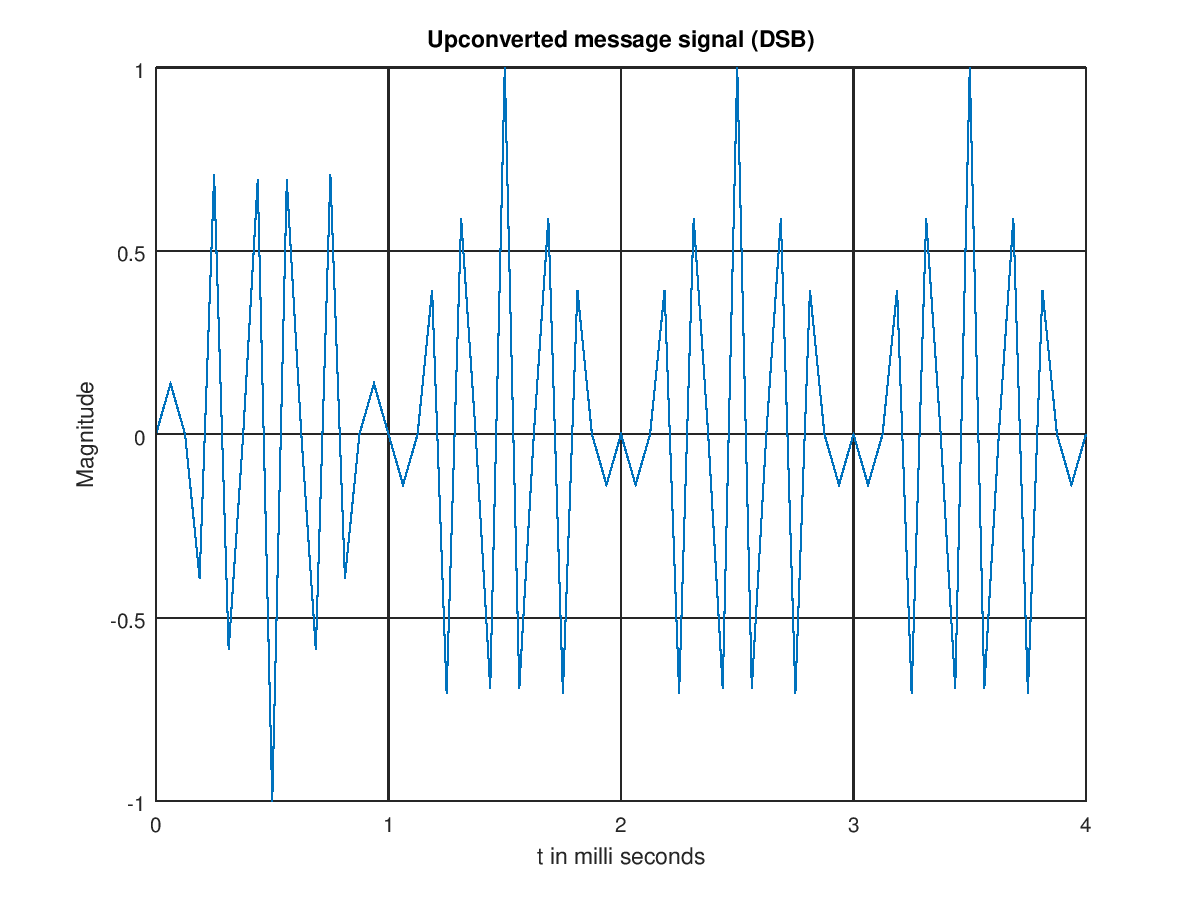
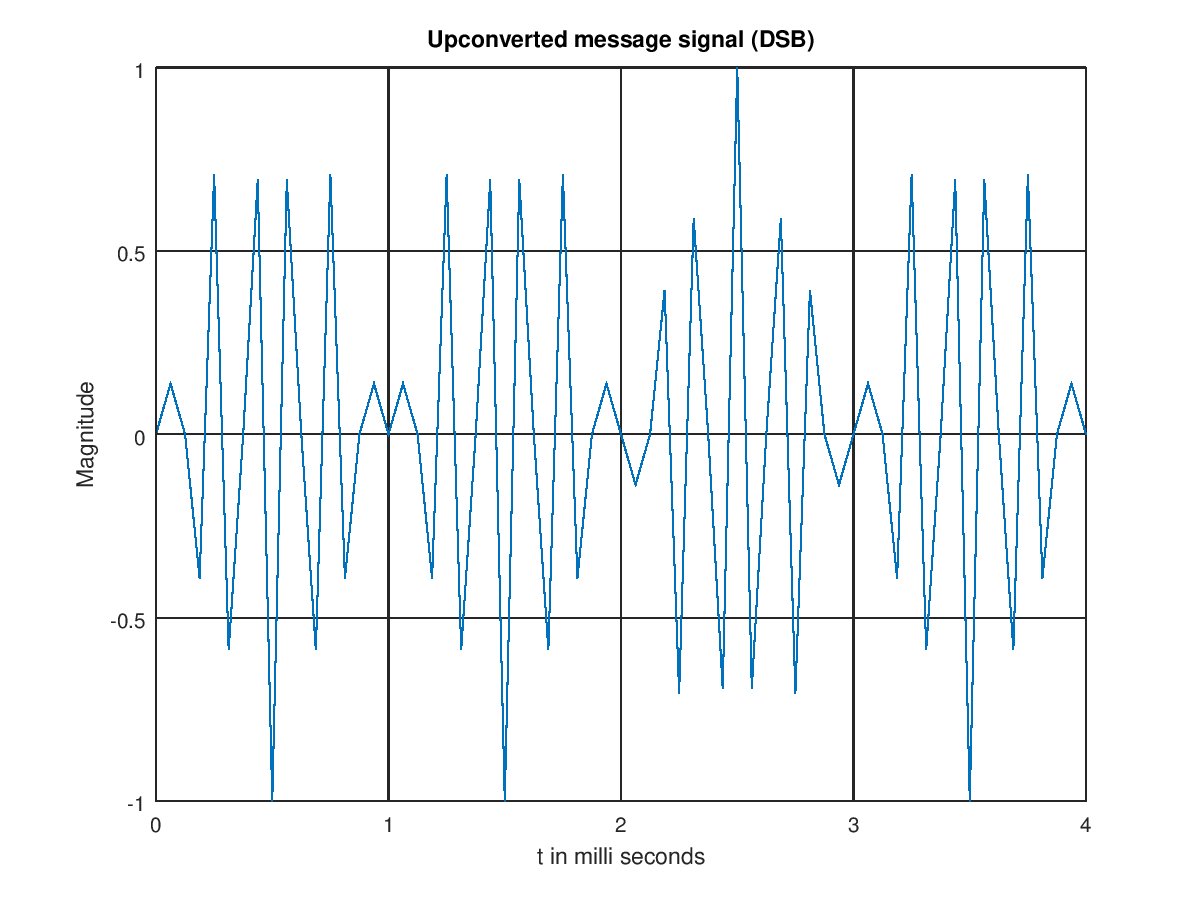
Awesome

Changed region(s): [[0.3392, 0.1244, 0.5242, 0.84], [0.7092, 0.1244, 0.8942, 0.84]]

diff --git a/LAB 4/Second Attempt/awesome/5.m b/LAB 4/Second Attempt/awesome/5.m
@@ -1,0 +1,76 @@
+
+samplingRate = 40;
+
+symbolTime = 1;
+dt = 1/1000;
+
+Ac = 1;
+fc = 10;
+
+
+symbols = randomArray(4);
+[t_message, message] = MSG(symbols, samplingRate, symbolTime); % m(t)
+[t_am, am] = AM(message, t_message, Ac, fc); % u(t) = Am( m(t) )
+[t_dsb, dsb] = DSB(am, t_am, 10/symbolTime); % DSB
+
+subplot(3, 1, 1);
+	plot(t_message, message);
+	title(["Message signal. Symbols = ", mat2str(symbols)]);
+	xlabel("Time (mS)");
+	ylabel("Amplitude");
+
+subplot(3, 1, 2);
+	plot(t_am, am);
+	title("Amplitude Modulated message signal");
+	xlabel("Time (mS)");
+	ylabel("Amplitude");
+
+subplot(3, 1, 3);
+	plot(t_dsb, dsb);
+	title("DSB of message signal");
+	xlabel("Time (mS)");
+	ylabel("Amplitude");
+
+print -dpng dsb_ac.png
+
+[f_psd, psd] = PSD(dsb, t_dsb, length(symbols), samplingRate, dt);
+
+plot(f_psd, psd);
+title("PSD of DSB of AM signal");
+xlabel("Frequency (kHz)");
+ylabel("Magnitude");
+xlim([-2, 2]);
+
+print -dpng psd_dsb_am.png
+
+
+
+
+
+numberOfSamples = 50;
+
+symbols = randomArray(4);
+[t_message, message] = MSG(symbols, samplingRate, symbolTime); % m(t)
+[t_am, am] = AM(message, t_message, Ac, fc); % u(t) = Am( m(t) )
+[t_dsb, dsb] = DSB(am, t_am, 10/symbolTime); % DSB
+[freq, psd] = PSD(dsb, t_dsb, length(symbols), samplingRate, dt);
+
+averagePSD = psd./numberOfSamples;
+
+for i = 1:(numberOfSamples - 1)
+	symbols = randomArray(4);
+	[t_message, message] = MSG(symbols, samplingRate, symbolTime); % m(t)
+	[t_am, am] = AM(message, t_message, Ac, fc); % u(t) = Am( m(t) )
+	[t_dsb, dsb] = DSB(am, t_am, 10/symbolTime); % DSB
+	[freq, psd] = PSD(dsb, t_dsb, length(symbols), samplingRate, dt);
+
+	averagePSD = averagePSD + psd./numberOfSamples;
+end
+
+
+plot(freq, averagePSD);
+title(["Mean PSD of ", int2str(numberOfSamples), " upconverted amplitude-modulated-signals"]);
+xlabel("Frequency (kHz)");
+ylabel("Magnitude");
+% xlim([-22, 22]);
+print -dpng mean_psd_dsb_am.png

diff --git a/LAB 4/Second Attempt/awesome/4.m b/LAB 4/Second Attempt/awesome/4.m
@@ -1,0 +1,44 @@
+symbols = randomArray(4);
+samplingRate = 40;
+
+symbolTime = 1;
+dt = 1/1000;
+
+[t_message, message] = MSG(symbols, samplingRate, symbolTime);
+[t_dsb, dsb] = DSB(message, t_message, 10/symbolTime);
+
+[f_psd, psd] = PSD(dsb, t_dsb, length(symbols), samplingRate, dt);
+
+plot(f_psd, psd);
+xlabel("Frequency (kHz)");
+ylabel("Magnitude");
+title("PSD of upconverted message signal");
+xlim([-12, 12]);
+print -dpng psd_dsb.png
+
+
+numberOfSamples = 500;
+
+symbols = randomArray(4);
+[t_message, message] = MSG(symbols, samplingRate, symbolTime);
+[t_dsb, dsb] = DSB(message, t_message, 10/symbolTime);
+[freq, psd] = PSD(dsb, t_dsb, length(symbols), samplingRate, dt);
+
+averagePSD = psd./numberOfSamples;
+
+for i = 1:(numberOfSamples - 1)
+	symbols = randomArray(4);
+	[t_message, message] = MSG(symbols, samplingRate, symbolTime);
+	[t_dsb, dsb] = DSB(message, t_message, 10/symbolTime);
+	[f_psd, psd] = PSD(dsb, t_dsb, length(symbols), samplingRate, dt);
+
+	averagePSD = averagePSD + psd./numberOfSamples;
+end
+
+plot(freq, averagePSD);
+title(["Mean PSD of ", int2str(numberOfSamples), " upconverted signals"]);
+xlabel("Frequency (kHz)");
+ylabel("Magnitude");
+xlim([-12, 12]);
+
+print -dpng mean_psd_dsb.png

diff --git a/LAB 4/Second Attempt/awesome/contFT.m b/LAB 4/Second Attempt/awesome/contFT.m
@@ -1,0 +1,27 @@
+function [X,f,df] = contFT(x,tstart,dt,df_desired)
+%Use Matlab DFT for approximate computation of continuous time Fourier %transform
+%INPUTS
+%x = vector of time domain samples, assumed uniformly spaced
+%tstart= time at which first sample is taken
+%dt = spacing between samples
+%df_desired = desired frequency resolution
+
+%OUTPUTS
+%X=vector of samples of Fourier transform
+%f=corresponding vector of frequencies at which samples are obtained %df=freq resolution attained (redundant--already available from %difference of consecutive entries of f)
+
+%%%%%%%%%
+%minimum FFT size determined by desired freq 
+Nmin=max(ceil(1/(df_desired*dt)),length(x));
+%choose FFT size to be the next power of 2
+Nfft = 2^(nextpow2(Nmin));
+%compute Fourier transform, centering around 
+X=dt*fftshift(fft(x,Nfft));
+%achieved frequency resolution
+df=1/(Nfft*dt);
+%range of frequencies covered
+f = ((0:Nfft-1)-Nfft/2)*df; %same as f=-1/(2*dt):df:1/(2*dt) - df
+
+%phase shift associated with start time 
+X=X.*exp(-j*2*pi*f*tstart);
+end

diff --git a/LAB 4/Second Attempt/awesome/MSG.m b/LAB 4/Second Attempt/awesome/MSG.m
@@ -1,0 +1,20 @@
+%% MSG: Returns modulated message signal from symbols
+function [time, message] = MSG(symbols, samplingRate = 100, symbolTime = 1)
+	t_ref = 0:symbolTime/samplingRate:symbolTime;
+	ref = sin(pi*t_ref);
+
+	% samplingRate => m
+	% symbolTime => T
+
+	nsymbols = length(symbols);
+
+	nsymbols_upsampled = 1 + (nsymbols - 1)*samplingRate;
+	nsymbols_upsampled = nsymbols_upsampled * symbolTime;
+
+	symbols_upsampled = zeros(nsymbols_upsampled, 1);
+	symbols_upsampled(1:samplingRate*symbolTime:nsymbols_upsampled) = symbols;
+
+	message = conv(symbols_upsampled, ref)';
+	time = 0:symbolTime/samplingRate:(length(message) - 1)*symbolTime/samplingRate;
+end
+	

diff --git a/LAB 4/Second Attempt/awesome/meanPSD.m b/LAB 4/Second Attempt/awesome/meanPSD.m
@@ -1,0 +1,17 @@
+%% meanPSD: find the average PSD
+function [freq, averagePSD] = meanPSD(numberOfSamples, samplingRate, dt = 1/1000, symbolTime = 1)
+
+	symbols = randomArray(4);
+	[t_message, message] = MSG(symbols, samplingRate, symbolTime);
+	[freq, psd] = PSD(message, t_message, length(symbols), samplingRate, dt);
+
+	averagePSD = psd./numberOfSamples;
+
+	for i = 1:(numberOfSamples - 1)
+		symbols = randomArray(4);
+		[t_message, message] = MSG(symbols, samplingRate, symbolTime);
+		[f_psd, psd] = PSD(message, t_message, length(symbols), samplingRate, dt);
+
+		averagePSD = averagePSD + psd./numberOfSamples;
+	end
+end

diff --git a/LAB 4/Second Attempt/awesome/1.m b/LAB 4/Second Attempt/awesome/1.m
@@ -1,0 +1,25 @@
+symbols = randomArray(4);
+samplingRate = 100;
+
+symbolTime = 1;
+dt = 1/1000;
+
+[t_message, message] = MSG(symbols, samplingRate, symbolTime);
+
+[f_psd, psd] = PSD(message, t_message, length(symbols), samplingRate, dt);
+
+subplot(2, 1, 1);
+	plot(t_message, message);
+	title(["Message signal. Symbols = ", mat2str(symbols)]);
+	xlabel("Time (mS)");
+	ylabel("Amplitude");
+
+
+subplot(2, 1, 2);
+	plot(f_psd, psd);
+	title("Power Spectral Density");
+	xlabel("Frequency (kHz)");
+	ylabel("Magnitude");
+	xlim([-2, 2]);
+
+print -dpng 1.png

diff --git a/LAB 4/Second Attempt/awesome/3.m b/LAB 4/Second Attempt/awesome/3.m
@@ -1,0 +1,23 @@
+symbols = randomArray(4);
+samplingRate = 40;
+
+symbolTime = 1;
+dt = 1/1000;
+
+[t_message, message] = MSG(symbols, samplingRate, symbolTime);
+[t_dsb, dsb] = DSB(message, t_message, 10/symbolTime);
+
+subplot(2, 1, 1);
+	plot(t_message, message);
+	title(["Message signal. Symbols = ", mat2str(symbols)]);
+	xlabel("Time (mS)");
+	ylabel("Amplitude");
+
+subplot(2, 1, 2);
+	plot(t_dsb, dsb);
+	title("DSB of message signal");
+	xlabel("Time (mS)");
+	ylabel("Amplitude");
+
+print -dpng 3.png
+

diff --git a/LAB 4/Second Attempt/awesome/2.m b/LAB 4/Second Attempt/awesome/2.m
@@ -1,0 +1,14 @@
+numberOfSamples = 500;
+samplingRate = 100;
+dt = 1/1000;
+symbolTime = 1;
+
+[freq, averagePSD] = meanPSD(numberOfSamples, samplingRate, dt, symbolTime);
+
+plot(freq, averagePSD);
+title(["Mean PSD of ", int2str(numberOfSamples), " signals"]);
+xlabel("Frequency (kHz)");
+ylabel("Magnitude");
+xlim([-2, 2]);
+
+print -dpng 2.png

diff --git a/LAB 4/Second Attempt/awesome/PSD.m b/LAB 4/Second Attempt/awesome/PSD.m
@@ -1,0 +1,6 @@
+%% PSD: Returns the power spectral density of message signal
+function [freq, psd] = PSD(message, time, ns, samplingrate = 100, dt = 1/1000)
+	[U, freq, df_acquired] = contFT(message, time(1), 1/samplingrate, dt);
+
+	psd = abs(U).^2.*(1/(ns*dt));
+end

diff --git a/LAB 4/Second Attempt/awesome/randomArray.m b/LAB 4/Second Attempt/awesome/randomArray.m
@@ -1,0 +1,11 @@
+function [array] = randomArray (arrayLength)
+  % creates Random Array from arrayLength
+  array = rand(arrayLength, 1);
+  for i = 1:length(array)
+    if (array(i) < 0.5)
+      array(i) = -1;
+    else
+      array(i) = 1;
+    end
+  end
+end

diff --git a/LAB 4/Second Attempt/awesome/AM.m b/LAB 4/Second Attempt/awesome/AM.m
@@ -1,0 +1,5 @@
+%% AM: Amplitude Modulates message signal
+function [t_am, am] = AM(signal, time, Ac, fc)
+	t_am = time;
+	am = (signal + Ac).*cos(2*pi*fc*t_am);
+end

diff --git a/LAB 4/Second Attempt/awesome/DSB.m b/LAB 4/Second Attempt/awesome/DSB.m
@@ -1,0 +1,5 @@
+%% DSB: DSB of signal
+function [time, dsb] = DSB(message, time, fc = 10)
+	dsb = message.*cos(2*pi*fc*time);
+end
+	
